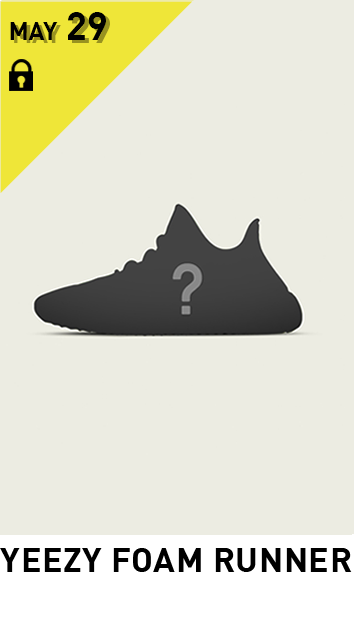
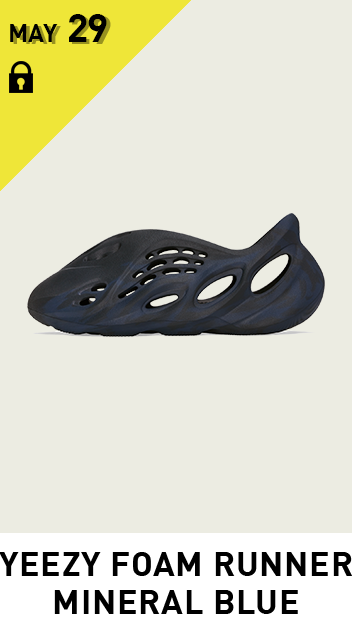
멤버스윅 슬라이드 수정

diff --git a/mobile/html/adidas/pn/MEMBERSWEEK.html b/mobile/html/adidas/pn/MEMBERSWEEK.html
@@ -120,14 +120,17 @@
                                                 </a>
                                             </div>											
                                         </li>
-                                        <!-- <li>
+                                        <li>
+                                            <img src="/images/adidas/2021/event/membersweek/lc/slider01_022.png" alt=""/>	
+                                        </li>									
+                                        <!-- <li class="btn_move">
                                             <img src="/images/adidas/2021/event/membersweek/lc/slider01_02.png" alt=""/>	
                                             <div class="btn_default">
                                                 <a href="https://m.adidas.co.kr/MO/Event/pnEvtView.action?pn=YEEZY_INFORMATION" campaign-label="구매하기">
                                                     구매하기
                                                 </a>
                                             </div>											
-                                        </li>								 -->
+                                        </li> -->
                                         <li class="btn_move">
                                             <img src="/images/adidas/2021/event/membersweek/lc/slider01_03.png" alt=""/>	
                                             <div class="btn_default">
@@ -137,12 +140,12 @@
                                             </div>											
                                         </li>												
                                         <li class="btn_move">
-                                            <img src="/images/adidas/2021/event/membersweek/lc/slider01_04.png" alt=""/>	
-                                            <div class="btn_default">
+                                            <img src="/images/adidas/2021/event/membersweek/lc/slider01_044.png" alt=""/>	
+                                            <!-- <div class="btn_default">
                                                 <a href="https://m.adidas.co.kr/MO/Product/prdDispBas.action?prodCD=GW5125" campaign-label="구매하기">
                                                     구매하기
                                                 </a>
-                                            </div>											
+                                            </div> -->
                                         </li>	
                                         <li>
                                             <img src="/images/adidas/2021/event/membersweek/lc/slider01_05.png" alt=""/>	
@@ -169,12 +172,7 @@
                                             </div>											
                                         </li>	
                                         <li>
-                                            <img src="/images/adidas/2021/event/membersweek/lc/slider01_08.png" alt=""/>	
-                                            <div class="btn_default">
-                                                <a href="https://m.adidas.co.kr/MO/Event/pnEvtView.action?pn=YEEZY_INFORMATION" campaign-label="구매하기">
-                                                    구매하기
-                                                </a>
-                                            </div>											
+                                            <img src="/images/adidas/2021/event/membersweek/lc/slider01_088.png" alt=""/>	
                                         </li>																																																		
                                     </ul>
                                 </div>

diff --git a/mobile/html/adidas/2021/event/membersweek/lc/build/index.html b/mobile/html/adidas/2021/event/membersweek/lc/build/index.html
@@ -154,14 +154,17 @@
 											</a>
 										</div>											
 									</li>
-									<!-- <li>
+									<li>
+										<img src="/images/adidas/2021/event/membersweek/lc/slider01_022.png" alt=""/>	
+									</li>									
+									<!-- <li class="btn_move">
 										<img src="/images/adidas/2021/event/membersweek/lc/slider01_02.png" alt=""/>	
 										<div class="btn_default">
 											<a href="https://m.adidas.co.kr/MO/Event/pnEvtView.action?pn=YEEZY_INFORMATION" campaign-label="구매하기">
 												구매하기
 											</a>
 										</div>											
-									</li>								 -->
+									</li> -->
 									<li class="btn_move">
 										<img src="/images/adidas/2021/event/membersweek/lc/slider01_03.png" alt=""/>	
 										<div class="btn_default">
@@ -171,12 +174,12 @@
 										</div>											
 									</li>												
 									<li class="btn_move">
-										<img src="/images/adidas/2021/event/membersweek/lc/slider01_04.png" alt=""/>	
-										<div class="btn_default">
+										<img src="/images/adidas/2021/event/membersweek/lc/slider01_044.png" alt=""/>	
+										<!-- <div class="btn_default">
 											<a href="https://m.adidas.co.kr/MO/Product/prdDispBas.action?prodCD=GW5125" campaign-label="구매하기">
 												구매하기
 											</a>
-										</div>											
+										</div> -->
 									</li>	
 									<li>
 										<img src="/images/adidas/2021/event/membersweek/lc/slider01_05.png" alt=""/>	
@@ -203,12 +206,7 @@
 										</div>											
 									</li>	
 									<li>
-										<img src="/images/adidas/2021/event/membersweek/lc/slider01_08.png" alt=""/>	
-										<div class="btn_default">
-											<a href="https://m.adidas.co.kr/MO/Event/pnEvtView.action?pn=YEEZY_INFORMATION" campaign-label="구매하기">
-												구매하기
-											</a>
-										</div>											
+										<img src="/images/adidas/2021/event/membersweek/lc/slider01_088.png" alt=""/>	
 									</li>																																																		
 								</ul>
 							</div>

diff --git a/mobile/html/adidas/2021/event/membersweek/lc/index.html b/mobile/html/adidas/2021/event/membersweek/lc/index.html
@@ -152,14 +152,17 @@
 											</a>
 										</div>											
 									</li>
-									<!-- <li>
+									<li>
+										<img src="/images/adidas/2021/event/membersweek/lc/slider01_022.png" alt=""/>	
+									</li>									
+									<!-- <li class="btn_move">
 										<img src="/images/adidas/2021/event/membersweek/lc/slider01_02.png" alt=""/>	
 										<div class="btn_default">
 											<a href="https://m.adidas.co.kr/MO/Event/pnEvtView.action?pn=YEEZY_INFORMATION" campaign-label="구매하기">
 												구매하기
 											</a>
 										</div>											
-									</li>								 -->
+									</li> -->
 									<li class="btn_move">
 										<img src="/images/adidas/2021/event/membersweek/lc/slider01_03.png" alt=""/>	
 										<div class="btn_default">
@@ -169,12 +172,12 @@
 										</div>											
 									</li>												
 									<li class="btn_move">
-										<img src="/images/adidas/2021/event/membersweek/lc/slider01_04.png" alt=""/>	
-										<div class="btn_default">
+										<img src="/images/adidas/2021/event/membersweek/lc/slider01_044.png" alt=""/>	
+										<!-- <div class="btn_default">
 											<a href="https://m.adidas.co.kr/MO/Product/prdDispBas.action?prodCD=GW5125" campaign-label="구매하기">
 												구매하기
 											</a>
-										</div>											
+										</div> -->
 									</li>	
 									<li>
 										<img src="/images/adidas/2021/event/membersweek/lc/slider01_05.png" alt=""/>	
@@ -201,12 +204,7 @@
 										</div>											
 									</li>	
 									<li>
-										<img src="/images/adidas/2021/event/membersweek/lc/slider01_08.png" alt=""/>	
-										<div class="btn_default">
-											<a href="https://m.adidas.co.kr/MO/Event/pnEvtView.action?pn=YEEZY_INFORMATION" campaign-label="구매하기">
-												구매하기
-											</a>
-										</div>											
+										<img src="/images/adidas/2021/event/membersweek/lc/slider01_088.png" alt=""/>	
 									</li>																																																		
 								</ul>
 							</div>
